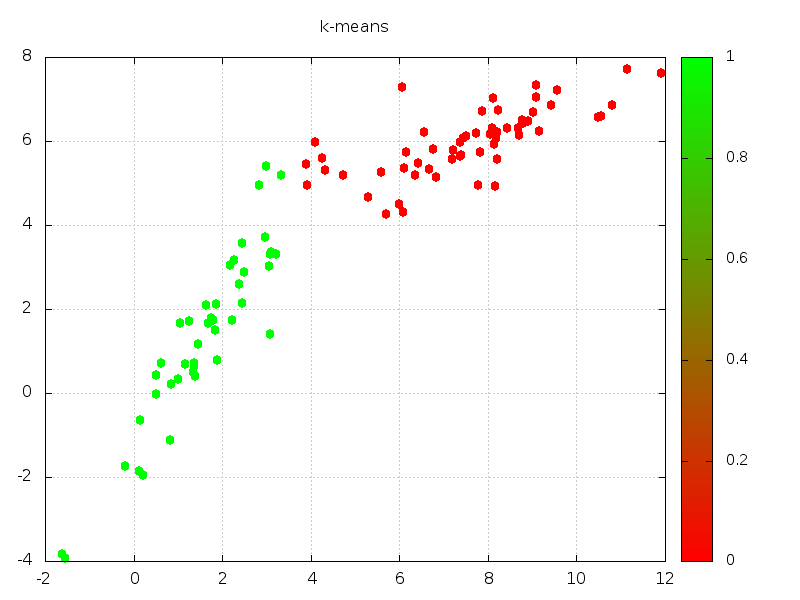
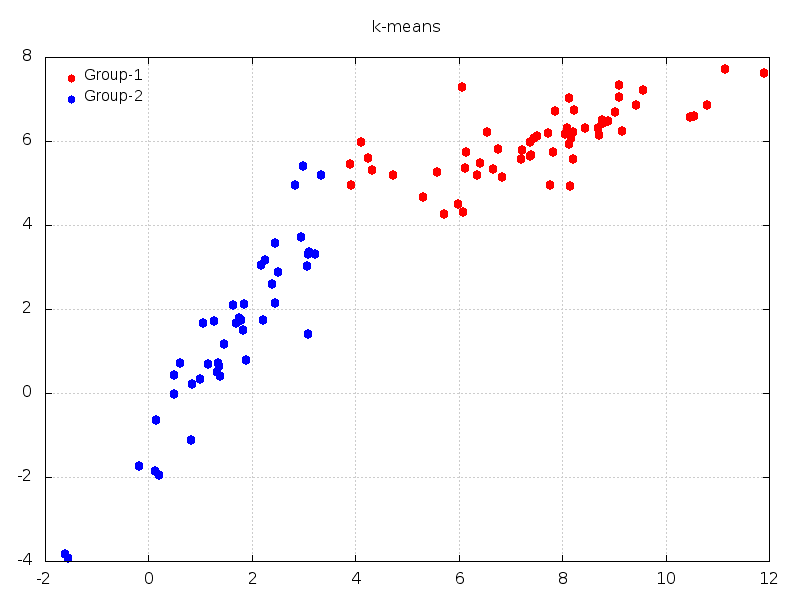
improve graph

diff --git a/README.md b/README.md
@@ -1,4 +1,4 @@
-A simple implementation of k-means and EM algorithms running on a static dataset.
+A simple implementation of k-means and expectation–maximization (EM) algorithms running on a static dataset.
 
 You need to have gnuplot installed to check the output.
 
